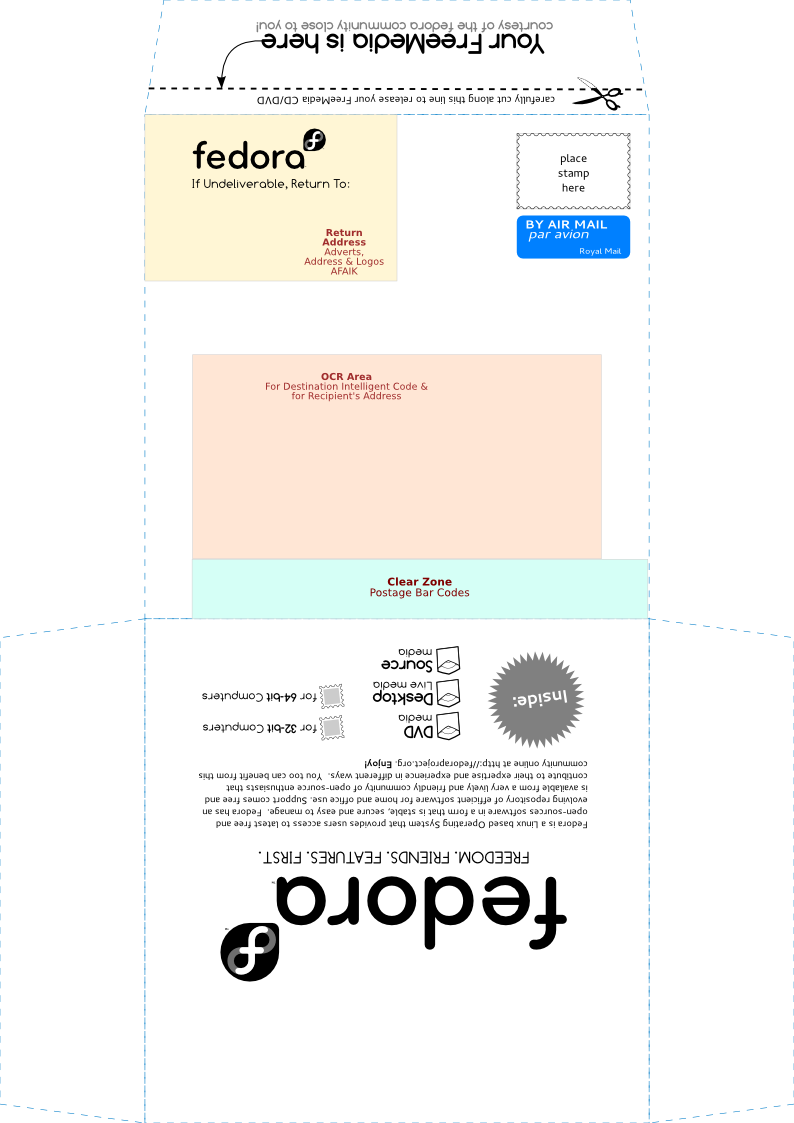
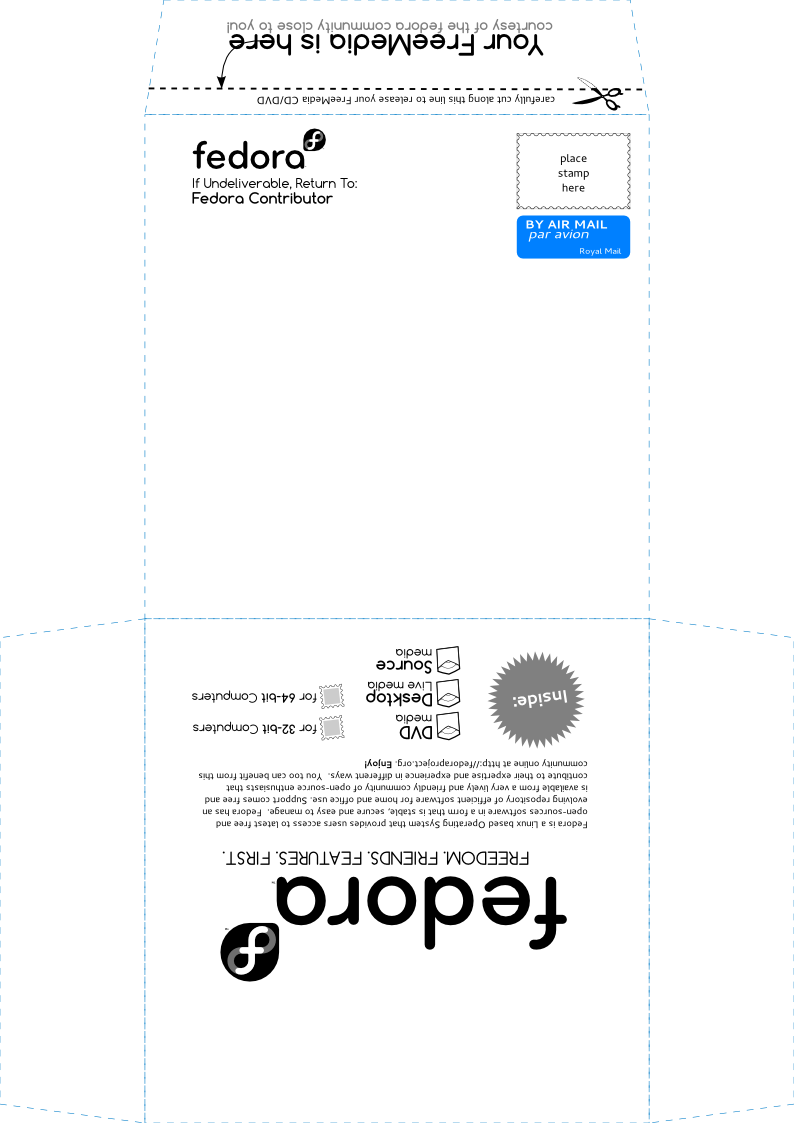
* Sat Jan 21 2012 Ankur Sinha <ankursinha AT fedoraproject DOT org>   completed the objects I think all the objects are now complete. I need to write a main method and act according to the passed command line arguments.
I also need to add support for the config file, although I don't think
that's really tough using the program_options library

It is printing the final png well. I need to add code to iterate over
the ticket list and print them. Again, that should probably be in the
main method. I could add a method for that in ExportData too. I'll
think about it.

diff --git a/src/ExportData.cpp b/src/ExportData.cpp
@@ -43,10 +43,16 @@
  * Description:  constructor
  *--------------------------------------------------------------------------------------
  */
-ExportData::ExportData (std::string databaseFile, std::string outputDirectory)
+ExportData::ExportData (std::string databaseFile, std::string outputDirectory, std::string templateLocation)
 {
     mDatabaseFile = databaseFile;
     mOutputDirectory = outputDirectory;
+    mImageTemplateLocation = templateLocation;
+    mSendersAddressStartX = 191;
+    mSendersAddressStarty = 206;
+    mReceiversAddressStartX = 350;
+    mReceiversAddressStarty = 395;
+        
 }  /* -----  end of method ExportData::ExportData  (constructor)  ----- */
 
     void
@@ -447,7 +453,6 @@ ExportData::RequestToString (int request )
 }		/* -----  end of method ExportData::RequestToString  ----- */
 
 
-
 /*
  *--------------------------------------------------------------------------------------
  *       Class:  ExportData
@@ -468,4 +473,86 @@ ExportData::BreakAddressToMultiline (std::string addressToFormat )
     }
     return vector_to_return;
 }		/* -----  end of method ExportData::BreakAddressToMultiline  ----- */
+
+
+/*
+ *--------------------------------------------------------------------------------------
+ *       Class:  ExportData
+ *      Method:  ExportData :: ImportTemplate
+ * Description:  
+ *--------------------------------------------------------------------------------------
+ */
+    void
+ExportData::ImportTemplate ()
+{
+    mImageTemplate.read(mImageTemplateLocation);
+    mDestinationImageTemplate = mImageTemplate;
+//    mDestinationImageTemplate.font("@Comfortaa-Regular");
+    mDestinationImageTemplate.fontPointsize(12);
+    return ;
+}		/* -----  end of method ExportData::ImportTemplate  ----- */
+
+
+/*
+ *--------------------------------------------------------------------------------------
+ *       Class:  ExportData
+ *      Method:  ExportData :: OverlayTemplate
+ * Description:  
+ *--------------------------------------------------------------------------------------
+ */
+    void
+ExportData::OverlayTemplate (int ticketNumber)
+{
+    int i;
+    std::vector<std::string>  formatted_address ;
+    formatted_address = BreakAddressToMultiline(mSendersAddress);
+    mDestinationImageTemplate.draw(Magick::DrawableText(mSendersAddressStartX,mSendersAddressStarty + 14,mSendersName.c_str()));
+    for (i = 0; i < formatted_address.size(); i++)
+    {
+        mDestinationImageTemplate.draw(Magick::DrawableText(mSendersAddressStartX,mSendersAddressStarty + (i + 2) * 14,formatted_address[i].c_str()));
+    }
+
+    formatted_address.clear();
+
+    GetTicketInfoFromNumber(ticketNumber);      /* fill up the maps */
+    formatted_address = BreakAddressToMultiline(mAddressMap[ticketNumber]);
+    for (i = 0; i < formatted_address.size(); i++)
+    {
+        mDestinationImageTemplate.draw(Magick::DrawableText(mReceiversAddressStartX,mReceiversAddressStarty + (i + 1) * 14,formatted_address[i].c_str()));
+    }
+
+    mDestinationImageTemplate.display();
+    mDestinationImageTemplate.write("./freemedia.png");
+    return ;
+}		/* -----  end of method ExportData::OverlayTemplate  ----- */
+
+
+/*
+ *--------------------------------------------------------------------------------------
+ *       Class:  ExportData
+ *      Method:  ExportData :: SetSendersName
+ * Description:  
+ *--------------------------------------------------------------------------------------
+ */
+    void
+ExportData::SetSendersName (std::string sendersName )
+{
+    mSendersName = sendersName;
+    return ;
+}		/* -----  end of method ExportData::SetSendersName  ----- */
+
+
+/*
+ *--------------------------------------------------------------------------------------
+ *       Class:  ExportData
+ *      Method:  ExportData :: SetSendersAddress
+ * Description:  
+ *--------------------------------------------------------------------------------------
+ */
+    void
+ExportData::SetSendersAddress (std::string sendersAddress )
+{
+    mSendersAddress = sendersAddress;
+    return ;
+}		/* -----  end of method ExportData::SetSendersAddress  ----- */
 

diff --git a/src/Session.cpp b/src/Session.cpp
@@ -52,6 +52,8 @@ Session::Session ()
     mDatabaseFileLocation = home_dir + "/.local/share/fedora-freemedia-tool/freemedia-database.db";
     mInputReportFileLocation = home_dir + "/.local/share/fedora-freemedia-tool/report.csv";
     mEnvelopeTemplateLocation = "/usr/share/fedora-freemedia-tool/Freemedia-mailer.png";
+    mSendersName = "Free media contributors name comes here!";
+    mSendersAddress = "Address with %precent sign as %line break comes here!%";
     mListWhat = "all";
     mListLongWhat = "all";
     mVerboseLevel = 0;
@@ -233,4 +235,46 @@ Session::PrintListAsString ( )
     }
     return ret_val;
 }		/* -----  end of method Session::PrintList  ----- */
+
+
+/*
+ *--------------------------------------------------------------------------------------
+ *       Class:  Session
+ *      Method:  Session :: EnvelopeTemplateLocation
+ * Description:  
+ *--------------------------------------------------------------------------------------
+ */
+std::string
+Session::EnvelopeTemplateLocation ()
+{
+    return mEnvelopeTemplateLocation;
+}		/* -----  end of method Session::EnvelopeTemplateLocation  ----- */
+
+
+/*
+ *--------------------------------------------------------------------------------------
+ *       Class:  Session
+ *      Method:  Session :: SendersName
+ * Description:  
+ *--------------------------------------------------------------------------------------
+ */
+std::string
+Session::SendersName ( )
+{
+    return mSendersName;
+}		/* -----  end of method Session::SendersName  ----- */
+
+
+/*
+ *--------------------------------------------------------------------------------------
+ *       Class:  Session
+ *      Method:  Session :: SendersAddress
+ * Description:  
+ *--------------------------------------------------------------------------------------
+ */
+std::string
+Session::SendersAddress ( )
+{
+    return mSendersAddress;
+}		/* -----  end of method Session::SendersAddress  ----- */
 

diff --git a/src/ExportData.h b/src/ExportData.h
@@ -44,6 +44,7 @@
 #include	<map>
 #include	<iomanip>
 #include	<cstdio>
+#include	<Magick++.h>
 
 
 /*
@@ -56,7 +57,7 @@ class ExportData
 {
     public:
     /* ====================  LIFECYCLE     ======================================= */
-    ExportData (std::string databaseFile, std::string outputDirectory);
+    ExportData (std::string databaseFile, std::string outputDirectory, std::string templateLocation);
 
     /* ====================  ACCESSORS     ======================================= */
     void PrintAllTicketNumbers();
@@ -73,6 +74,10 @@ class ExportData
     void PrintTicketSummaryReport();
     void GetTicketInfoFromNumber(int ticketNumber); /* This method will get the other data for a passed ticket number from the database on demand */
     void PrintTicketInfoFromNumber(int ticketNumber);
+    void ImportTemplate();
+    void OverlayTemplate(int ticketNumber);
+    void SetSendersAddress(std::string sendersAddress);
+    void SetSendersName(std::string sendersName);
 
     /* ====================  OPERATORS     ======================================= */
 
@@ -89,6 +94,7 @@ class ExportData
     sqlite3_stmt *mpStatementHandle;
     std::string mDatabaseFile;
     std::string mOutputDirectory;
+    std::string mImageTemplateLocation;
     std::vector <int> mAllTicketNumbers;
     std::vector <int> mPendingTicketNumbers;
     std::vector <int> mCompleteTicketNumbers;
@@ -100,6 +106,14 @@ class ExportData
     int mNumberOfPendingTickets;
     int mNumberOfCompleteTickets;
     int mNumberOfTotalTickets;
+    Magick::Image mImageTemplate;
+    Magick::Image mDestinationImageTemplate;
+    int mSendersAddressStartX;
+    int mSendersAddressStarty;
+    int mReceiversAddressStartX;
+    int mReceiversAddressStarty;
+    std::string mSendersAddress;
+    std::string mSendersName;
 
 
 }; /* -----  end of class ExportData  ----- */

diff --git a/src/test.cpp b/src/test.cpp
@@ -60,11 +60,14 @@ main ( int argc, char *argv[] )
     std::cout << "Input report file location is: " <<  currentSession.InputReportFileLocation() << std::endl;
     std::cout << "Database file location is: " <<  currentSession.DatabaseFileLocation() << std::endl;
     std::cout << "Print list is: " << currentSession.PrintListAsString() << std::endl;
+    std::cout << "Template location is " << currentSession.EnvelopeTemplateLocation() << std::endl;
 
     ImportData newInstance(currentSession.InputReportFileLocation(),currentSession.DatabaseFileLocation());
     newInstance.ImportDataToDatabase("");
 
-    ExportData newExportInstance(currentSession.DatabaseFileLocation(),currentSession.OutputDirectory());
+    ExportData newExportInstance(currentSession.DatabaseFileLocation(),currentSession.OutputDirectory(), currentSession.EnvelopeTemplateLocation());
+    newExportInstance.SetSendersName(currentSession.SendersName());
+    newExportInstance.SetSendersAddress(currentSession.SendersAddress());
     newExportInstance.GetAllTicketNumbers();
     newExportInstance.PrintAllTicketNumbers();
     newExportInstance.GetPendingTicketNumbers();
@@ -74,6 +77,8 @@ main ( int argc, char *argv[] )
     newExportInstance.GetTicketInfoFromNumber(7262);
     newExportInstance.PrintTicketInfoFromNumber(7262);
     newExportInstance.PrintTicketInfoFromNumber(7263);
+    newExportInstance.ImportTemplate();
+    newExportInstance.OverlayTemplate(7262);
 
     return EXIT_SUCCESS;
 }				/* ----------  end of function main  ---------- */

diff --git a/src/Session.h b/src/Session.h
@@ -64,6 +64,9 @@ class Session
     std::string InputReportFileLocation();
     std::string OutputDirectory();
     std::string PrintListAsString();
+    std::string EnvelopeTemplateLocation();
+    std::string SendersName();
+    std::string SendersAddress();
     int VerboseLevel();
 
     /* ====================  MUTATORS      ======================================= */
